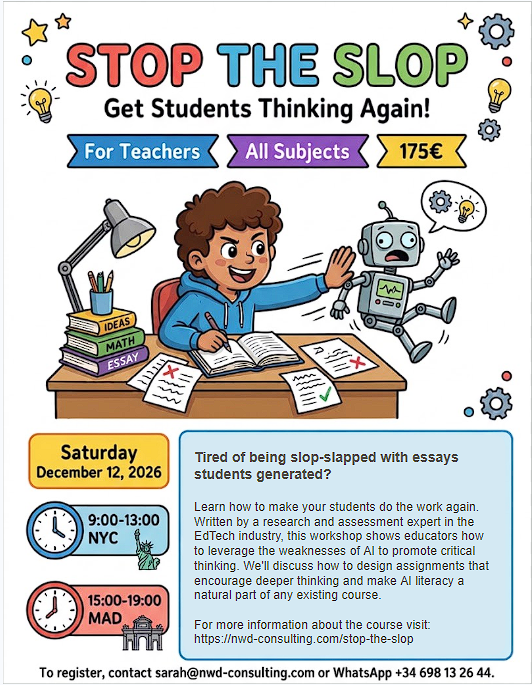
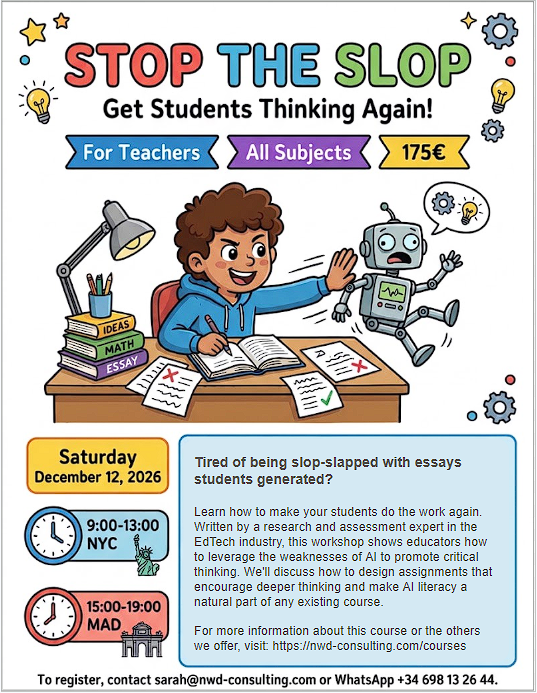
rephrase

Changed region(s): [[0.0, 0.0, 1.0, 1.0]]

diff --git a/templates/courses.html b/templates/courses.html
@@ -61,7 +61,7 @@
         </p>
         <p>
           Tired of being slop-slapped with essays students generated? Learn to make your students do the work. This workshop was written
-          by a research and assessment expert in the EdTech industry to show educators how leverage the weaknesses of AI to promote critical
+          by a research and assessment expert in the EdTech industry to show educators how leverage the weaknesses of AI to get students
           thinking. We will discuss how design assignments that promote critical thinking and turn AI literacy into a natural part of any existing
           course.
         </p>

diff --git a/content/posts/2026-10-12-Kari-Beth-Krieger.md b/content/posts/2026-10-12-Kari-Beth-Krieger.md
@@ -2,7 +2,7 @@
 title: "Kari Beth Krieger, Ph.D."
 date: 2026-10-12
 author: sarah-maestrales
-categories: [The Latest]
+categories: [The Latest, Our Team]
 tags: []
 summary: Today's spotlight is on Dr. Kari Beth Krieger, whose admirable dedication to making the world a better place is daily evidenced in practice.
 image: /img/posts/Karin.jpg

diff --git a/content/posts/2026-10-12-jake-mirra.md b/content/posts/2026-10-12-jake-mirra.md
@@ -2,7 +2,7 @@
 title: "Jake Mirra, Ph.D."
 date: 2026-10-12
 author: sarah-maestrales
-categories: [The Latest]
+categories: [The Latest, Our Team]
 tags: [math education,]
 summary: Dr. Jake Mirra, on math education.
 image: /img/posts/Jake.jpg

diff --git a/content/posts/2026-10-12-gordon-tai.md b/content/posts/2026-10-12-gordon-tai.md
@@ -2,7 +2,7 @@
 title: "Gordon Tai"
 date: 2026-10-12
 author: gordon-tai
-categories: [The Latest]
+categories: [The Latest, Our Team]
 tags: []
 summary: Gordon Tai, multiple founder and Gamification Designer.
 image: /img/posts/Gordon.jpg
